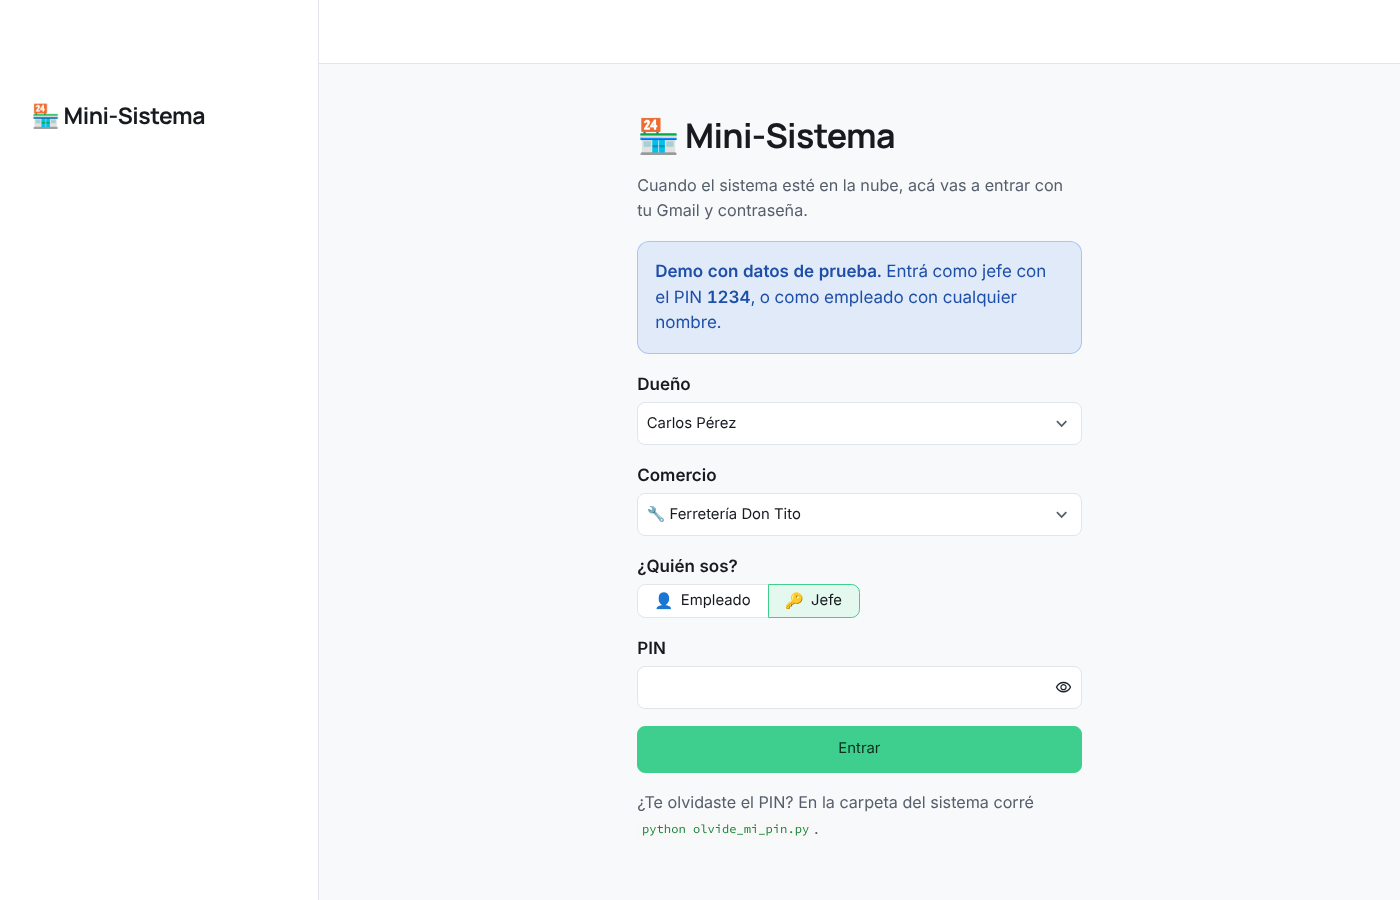
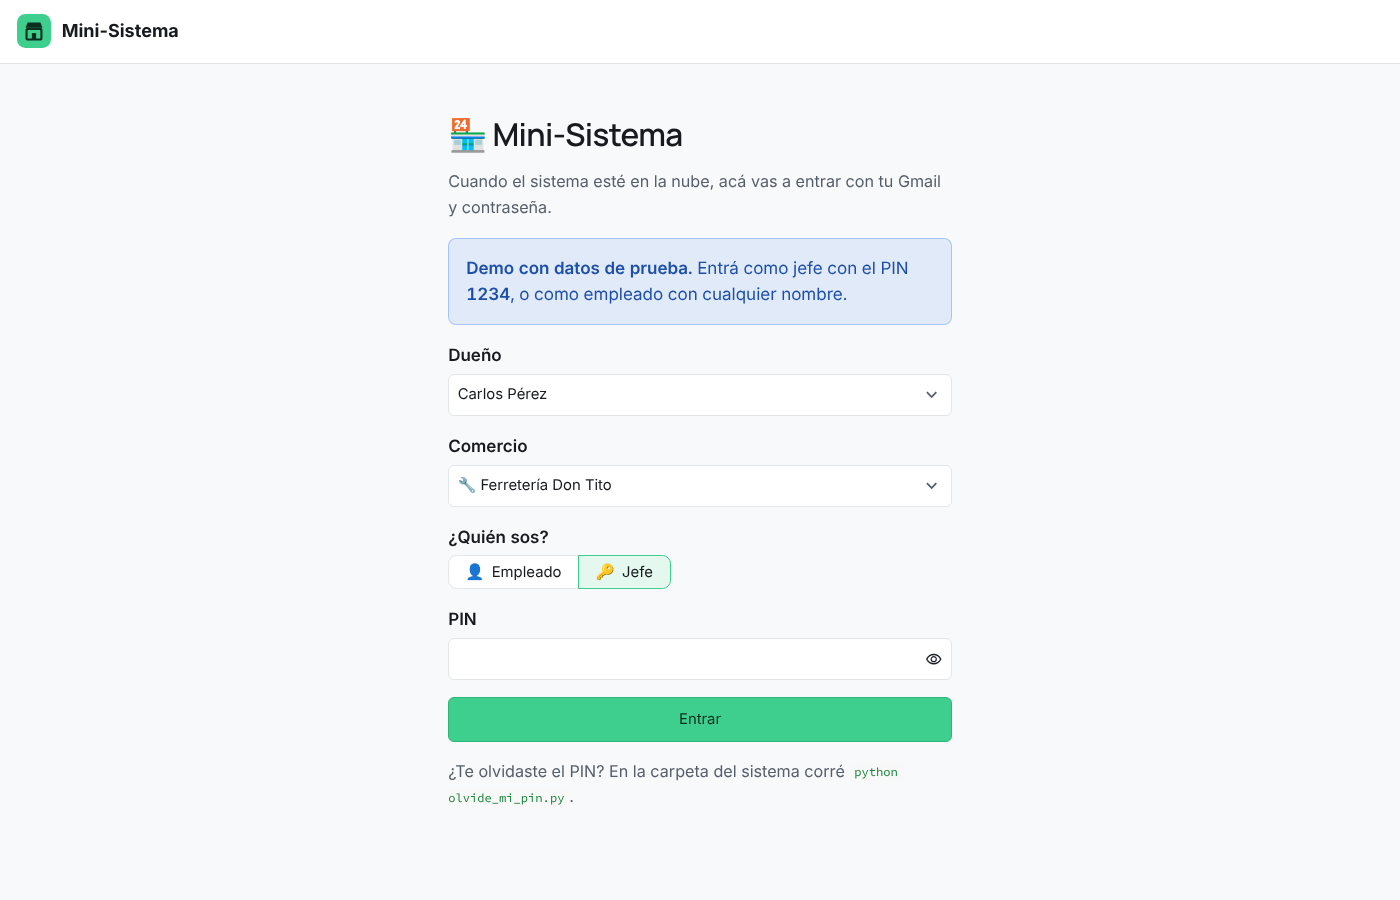
Diseño más parecido a Supabase y modo oscuro también para el empleado
Logo arriba a la izquierda, cabecera de cada pantalla con línea abajo,
tarjetas de los comercios con etiquetas de estado (caja abierta, stock
bajo, vencidos), accesos rápidos como botoncitos, títulos más livianos,
esquinas de 8 px y botón principal verde con borde. El empleado también
ve el interruptor; su elección dura mientras está adentro.

Claude-Session: https://claude.ai/code/session_013MiRa8bg68iYCC9FLNK3SH

diff --git a/comun.py b/comun.py
@@ -1,5 +1,6 @@
 """Cosas que usan varias pantallas: formato de pesos, comercio elegido, etc."""
 
+import html
 import json
 from datetime import date
 
@@ -79,8 +80,12 @@ ESTILOS = """<style>
 .stApp hr { border-color: var(--borde) !important; }
 
 /* Títulos sobrios, como en Supabase: no tan gigantes ni tan gruesos */
-.stApp h1 { font-size: 2rem !important; font-weight: 700 !important; letter-spacing: -0.02em; }
-.stApp h2, .stApp h3 { font-weight: 650 !important; letter-spacing: -0.01em; }
+.stApp h1 { font-size: 1.85rem !important; font-weight: 600 !important; letter-spacing: -0.02em; }
+.stApp h2, .stApp h3 { font-weight: 600 !important; letter-spacing: -0.01em; }
+.stApp h3 { font-size: 1.3rem !important; }
+/* La cabecera de cada pantalla (encabezado() en este archivo): dónde estás, el título y una línea abajo */
+.st-key-encabezado { border-bottom: 1px solid var(--borde); border-radius: 0 !important; padding-bottom: 0.9rem; margin-bottom: 0.6rem; }
+.st-key-encabezado [data-testid="stCaptionContainer"] p { font-size: 0.95rem; font-weight: 500; }
 .stApp [data-testid="stHeaderActionElements"] { display: none; }
 /* El nombre del comercio en la barra de la izquierda: más chico, para que entre en una línea */
 .stApp [data-testid="stSidebar"] h1 { font-size: 1.35rem !important; }
@@ -96,7 +101,8 @@ ESTILOS = """<style>
 [data-testid="stTopNavDropdownLink"] p, [data-testid="stTopNavDropdownLink"] span { color: var(--texto) !important; }
 [data-testid="stTopNavDropdownLink"]:hover, [data-testid="stTopNavDropdownLink"][aria-current="page"] { background: var(--tarjeta-suave) !important; border-radius: 8px; }
 [data-testid="stPageLink"] a p { color: var(--texto) !important; }
-[data-testid="stPageLink"] a:hover { background: var(--tarjeta-suave) !important; }
+[data-testid="stMain"] [data-testid="stPageLink"] a { background: var(--tarjeta); border: 1px solid var(--borde); border-radius: 6px; padding: 0.45rem 0.8rem; }
+[data-testid="stPageLink"] a:hover { background: var(--tarjeta-suave) !important; border-color: var(--borde-fuerte) !important; }
 
 /* ---------- Textos ---------- */
 /* Nombres de los casilleros ("Día", "Producto", "Cantidad"...): más grandes y bien legibles */
@@ -109,24 +115,29 @@ ESTILOS = """<style>
 
 /* ---------- Tarjetas ---------- */
 /* Las cajas con borde (st.container(border=True)) y los desplegables: borde finito y esquinas suaves */
-.stApp [data-testid="stVerticalBlock"] { border-color: var(--borde) !important; border-radius: 12px; }
-[data-testid="stExpander"] details { border: 1px solid var(--borde) !important; border-radius: 12px !important; background: var(--tarjeta); }
+.stApp [data-testid="stVerticalBlock"] { border-color: var(--borde) !important; border-radius: 8px; }
+/* Las tarjetas de los comercios (Inicio): fondo propio, encabezado con el nombre y el estado */
+.stApp [class*="st-key-tarjeta"] { background: var(--tarjeta); border-radius: 8px; }
+[data-testid="stVerticalBlockBorderWrapper"]:has(> div > [class*="st-key-tarjeta"]) { background: var(--tarjeta); border-color: var(--borde) !important; border-radius: 8px; }
+.tarjeta-titulo { display: flex; align-items: center; justify-content: space-between; gap: 0.5rem; flex-wrap: wrap; }
+.tarjeta-titulo h3 { margin: 0 !important; padding: 0 !important; }
+[class*="st-key-tarjeta"] [data-testid="stMetric"] { background: var(--tarjeta-suave); border-color: transparent; }
+[data-testid="stExpander"] details { border: 1px solid var(--borde) !important; border-radius: 8px !important; background: var(--tarjeta); }
 [data-testid="stExpander"] summary, [data-testid="stExpander"] summary p { color: var(--texto) !important; }
 [data-testid="stExpander"] summary:hover { background: var(--tarjeta-suave); }
 
 /* Cada número grande en su propia tarjeta, como los paneles de Supabase */
 [data-testid="stMetric"] {
-    background: var(--tarjeta); border: 1px solid var(--borde); border-radius: 12px;
-    padding: 14px 18px; box-shadow: var(--sombra);
+    background: var(--tarjeta); border: 1px solid var(--borde); border-radius: 8px;
+    padding: 14px 18px;
 }
-[data-testid="stMetricLabel"] p { font-size: 0.85rem !important; font-weight: 600; text-transform: uppercase;
-                                  letter-spacing: 0.04em; color: var(--texto-suave) !important; }
+[data-testid="stMetricLabel"] p { font-size: 0.95rem !important; font-weight: 500; color: var(--texto-suave) !important; }
 [data-testid="stMetricValue"], [data-testid="stMetricValue"] div { font-weight: 500; color: var(--texto) !important; }
 /* La flechita de "vs. el período anterior": en el tema oscuro, más clara para que se lea */
 [data-testid="stMetricDelta"] { filter: var(--filtro-flechas); }
 
 /* Avisos (info, éxito, cuidado, error): fondo suave del color, con borde, que se lee en los dos temas */
-[data-testid="stAlertContainer"] { border: 1px solid var(--borde); border-radius: 12px; }
+[data-testid="stAlertContainer"] { border: 1px solid var(--borde); border-radius: 8px; }
 [data-testid="stAlertContainer"]:has([data-testid="stAlertContentInfo"]) { background: color-mix(in srgb, #3B82F6 12%, transparent) !important; border-color: color-mix(in srgb, #3B82F6 35%, transparent); }
 [data-testid="stAlertContainer"]:has([data-testid="stAlertContentSuccess"]) { background: color-mix(in srgb, #22C55E 12%, transparent) !important; border-color: color-mix(in srgb, #22C55E 35%, transparent); }
 [data-testid="stAlertContainer"]:has([data-testid="stAlertContentWarning"]) { background: color-mix(in srgb, #EAB308 14%, transparent) !important; border-color: color-mix(in srgb, #EAB308 40%, transparent); }
@@ -136,13 +147,22 @@ ESTILOS = """<style>
 [data-testid="stAlertContentWarning"], [data-testid="stAlertContentWarning"] p { color: var(--aviso-cuidado) !important; }
 [data-testid="stAlertContentError"], [data-testid="stAlertContentError"] p { color: var(--aviso-error) !important; }
 
+/* ---------- Insignias ---------- */
+/* Etiquetitas de estado (Caja abierta, Stock bajo...), hechas con insignia() de este archivo */
+.insignia { display: inline-flex; align-items: center; gap: 0.35rem; padding: 0.15rem 0.6rem; border-radius: 999px;
+            font-size: 0.88rem; font-weight: 500; border: 1px solid var(--borde); color: var(--texto-suave);
+            background: var(--tarjeta-suave); margin: 0 0.35rem 0.35rem 0; }
+.insignia-verde { color: var(--aviso-exito); background: color-mix(in srgb, #22C55E 12%, transparent); border-color: color-mix(in srgb, #22C55E 40%, transparent); }
+.insignia-amarilla { color: var(--aviso-cuidado); background: color-mix(in srgb, #EAB308 14%, transparent); border-color: color-mix(in srgb, #EAB308 45%, transparent); }
+.insignia-roja { color: var(--aviso-error); background: color-mix(in srgb, #EF4444 12%, transparent); border-color: color-mix(in srgb, #EF4444 40%, transparent); }
+
 /* ---------- Casilleros ---------- */
 .stApp [data-testid="stTextInputRootElement"], .stApp [data-testid="stTextAreaRootElement"],
 .stApp [data-testid="stSelectbox"] [role="group"], .stApp [data-testid="stMultiSelect"] [role="group"],
 .stApp [data-testid="stNumberInputContainer"], .stApp [data-testid="stDateInputField"],
 .stApp [data-baseweb="input"], .stApp [data-baseweb="base-input"], .stApp [data-baseweb="textarea"],
 .stApp [data-baseweb="select"] > div {
-    background: var(--tarjeta) !important; border-color: var(--borde) !important; border-radius: 8px !important;
+    background: var(--casillero) !important; border-color: var(--borde) !important; border-radius: 6px !important;
 }
 .stApp input, .stApp textarea, .stApp [data-baseweb="select"] div { color: var(--texto) !important; -webkit-text-fill-color: var(--texto); }
 .stApp input::placeholder, .stApp textarea::placeholder { color: var(--texto-suave) !important; -webkit-text-fill-color: var(--texto-suave); opacity: 1; }
@@ -213,14 +233,14 @@ ESTILOS = """<style>
 
 /* ---------- Botones ---------- */
 .stButton button, .stFormSubmitButton button, .stDownloadButton button, .stLinkButton a {
-    min-height: 2.75rem; font-weight: 600; border-radius: 8px !important;
+    min-height: 2.6rem; font-weight: 500; border-radius: 6px !important;
 }
-/* El principal (Cobrar, Entrar, Abrir caja...): verde sólido */
+/* El principal (Cobrar, Entrar, Abrir caja...): verde, con el borde un poco distinto como en Supabase */
 .stApp [data-testid="stBaseButton-primary"], .stApp [data-testid="stBaseButton-primaryFormSubmit"] {
-    background: var(--acento) !important; border: 1px solid var(--acento) !important;
+    background: var(--boton) !important; border: 1px solid var(--boton-borde) !important;
 }
 .stApp [data-testid="stBaseButton-primary"] p, .stApp [data-testid="stBaseButton-primaryFormSubmit"] p,
-.stApp [data-testid="stBaseButton-primary"] span, .stApp [data-testid="stBaseButton-primaryFormSubmit"] span { color: var(--texto-acento) !important; }
+.stApp [data-testid="stBaseButton-primary"] span, .stApp [data-testid="stBaseButton-primaryFormSubmit"] span { color: var(--boton-texto) !important; }
 .stApp [data-testid="stBaseButton-primary"]:hover, .stApp [data-testid="stBaseButton-primaryFormSubmit"]:hover { filter: brightness(0.95); }
 /* Los demás: fondo de tarjeta con borde */
 .stApp [data-testid="stBaseButton-secondary"], .stApp [data-testid="stBaseButton-secondaryFormSubmit"],
@@ -336,10 +356,16 @@ def comercio_actual():
 
 
 def encabezado(icono, titulo, comercio=None):
-    """Título de cada pantalla, con el comercio elegido abajo."""
-    st.title(f"{icono} {titulo}")
-    if comercio:
-        st.caption(f"{RUBROS.get(comercio['rubro'], '🏪')} · **{comercio['nombre']}**")
+    """Cabecera de cada pantalla, como en Supabase: arriba en qué comercio estás, el título y una línea abajo."""
+    with st.container(key="encabezado"):
+        if comercio:
+            st.caption(f"{RUBROS.get(comercio['rubro'], '🏪')} · {comercio['nombre']}")
+        st.title(f"{icono} {titulo}")
+
+
+def insignia(texto, color="gris"):
+    """Una etiquetita de estado (verde, amarilla, roja o gris). Devuelve HTML para st.markdown(..., unsafe_allow_html=True)."""
+    return f'<span class="insignia insignia-{color}">{html.escape(texto)}</span>'
 
 
 def dejar_listo_el_lector(etiqueta, forzar=False):

diff --git a/tema.py b/tema.py
@@ -5,7 +5,7 @@ Cómo funciona (sin recargar la página):
 - Los estilos de comun.ESTILOS usan solo esas variables, nunca un color fijo.
 - Cambiar el tema es cambiar esas pocas variables: el navegador repinta todo al instante.
 - Lo que elige el jefe se guarda en la base (duenos.tema). Al volver a entrar sigue igual,
-  y sus empleados ven el mismo tema.
+  y sus empleados arrancan con ese tema (ellos también pueden cambiarlo mientras están adentro).
 
 Para cambiar los colores del sistema alcanza con tocar PALETAS.
 """
@@ -30,6 +30,10 @@ PALETAS = {
         "texto-suave": "#555E6B",    # ayudas y títulos de las tarjetas (con buen contraste igual)
         "acento": "#3ECF8E",         # botón principal (Cobrar), casilleros elegidos
         "acento-fuerte": "#1F9D63",  # textos y bordes verdes (más oscuro, para que se lea en blanco)
+        "boton": "#3ECF8E",          # botón principal (Cobrar, Entrar...)
+        "boton-borde": "#2FB57A",
+        "boton-texto": "#0B2E1E",
+        "casillero": "#FFFFFF",      # fondo de los casilleros para escribir
         "texto-acento": "#0B2E1E",   # letra arriba del verde
         "positivo": "#15803D",       # vuelto, ganancia
         "aviso-info": "#1E4FA8",     # letra de los avisos de cada tipo
@@ -52,6 +56,10 @@ PALETAS = {
         "texto-suave": "#A3ADBB",
         "acento": "#3ECF8E",
         "acento-fuerte": "#3ECF8E",
+        "boton": "#006239",          # en oscuro, Supabase usa un verde profundo con borde verde claro
+        "boton-borde": "#3ECF8E",
+        "boton-texto": "#FFFFFF",
+        "casillero": "#0D1117",
         "texto-acento": "#07261A",
         "positivo": "#4ADE80",
         "aviso-info": "#93C5FD",
@@ -104,12 +112,29 @@ def _al_cambiar():
     nuevo = "oscuro" if st.session_state["switch_tema"] else "claro"
     st.session_state["tema"] = nuevo
     dueno = st.session_state.get("dueno")
-    if dueno and not MODO_DEMO:
+    # Lo que elige el jefe queda guardado; lo que elige un empleado, solo mientras está adentro
+    if dueno and st.session_state.get("rol") == "jefe" and not MODO_DEMO:
         op.guardar_tema(dueno["id"], nuevo)
 
 
+def logo():
+    """El logo de arriba a la izquierda: un cuadradito verde con una tiendita y el nombre del sistema.
+    Es un dibujo (SVG) hecho acá mismo; va en dos versiones porque el texto cambia de color con el tema."""
+    texto = PALETAS[tema_activo()]["texto"]
+    return f"""<svg xmlns="http://www.w3.org/2000/svg" width="176" height="32" viewBox="0 0 176 32">
+  <rect x="0" y="0" width="32" height="32" rx="8" fill="#3ECF8E"/>
+  <path d="M8 13 L10 8 H22 L24 13 Z" fill="#0B2E1E"/>
+  <rect x="9" y="14" width="14" height="10" rx="1.5" fill="none" stroke="#0B2E1E" stroke-width="2"/>
+  <rect x="14" y="18" width="4" height="6" fill="#0B2E1E"/>
+  <text x="42" y="22" font-family="Inter, Segoe UI, Arial, sans-serif" font-size="17" font-weight="700"
+        fill="{texto}">Mini-Sistema</text>
+</svg>"""
+
+
 def switch_tema():
-    """El botón "Modo oscuro" de la barra de la izquierda (solo lo ve el jefe)."""
+    """El botón "Modo oscuro" de la barra de la izquierda (lo ven el jefe y los empleados)."""
     st.session_state["switch_tema"] = tema_activo() == "oscuro"
-    st.toggle("🌙 Modo oscuro", key="switch_tema", on_change=_al_cambiar,
-              help="Cambia los colores del sistema. Queda guardado para la próxima vez y para tus empleados.")
+    ayuda = ("Cambia los colores del sistema. Queda guardado para la próxima vez y para tus empleados."
+             if st.session_state.get("rol") == "jefe" else
+             "Cambia los colores del sistema mientras estés adentro. Al entrar, se usan los que eligió el jefe.")
+    st.toggle("🌙 Modo oscuro", key="switch_tema", on_change=_al_cambiar, help=ayuda)

diff --git a/paginas/inicio.py b/paginas/inicio.py
@@ -1,17 +1,18 @@
 """Inicio: el "launcher". Muestra todos los comercios del dueño y accesos rápidos."""
 
+import html
 from datetime import date
 
 import streamlit as st
 
 import operaciones as op
-from comun import RUBROS, aviso_temporada, pesos, plural, texto_vencimientos
+from comun import RUBROS, aviso_temporada, insignia, pesos, plural, texto_vencimientos
 
 dueno = st.session_state["dueno"]
-st.title(f"Hola, {dueno['nombre'].split()[0]} 👋")
-
 hoy = date.today()
-st.caption(f"Hoy es {hoy:%d/%m/%Y}. Los números se actualizan con cada venta que cargás.")
+with st.container(key="encabezado"):  # misma cabecera que las otras pantallas (ver comun.encabezado)
+    st.title(f"Hola, {dueno['nombre'].split()[0]} 👋")
+    st.caption(f"Hoy es {hoy:%d/%m/%Y}. Los números se actualizan con cada venta que cargás.")
 
 # Accesos rápidos a las pantallas
 accesos = st.columns(5)
@@ -46,8 +47,12 @@ for i, c in enumerate(comercios.itertuples()):
     total_mes += del_mes["total"]
     ganancia_mes += del_mes["ganancia"]
 
-    with columnas[i % len(columnas)].container(border=True):
-        st.markdown(f"### {c.nombre}")
+    caja = op.caja_abierta(c.id)
+    # Cada comercio en su tarjeta: arriba el nombre con el estado de la caja, como los proyectos en Supabase
+    with columnas[i % len(columnas)].container(border=True, key=f"tarjeta_comercio_{c.id}"):
+        estado = insignia("● Caja abierta", "verde") if caja else insignia("Caja cerrada")
+        st.markdown(f'<div class="tarjeta-titulo"><h3>{html.escape(c.nombre)}</h3>{estado}</div>',
+                    unsafe_allow_html=True)
         st.caption(f"{RUBROS.get(c.rubro, c.rubro)} · {c.direccion or ''}")
         if del_dia["cantidad"]:
             st.metric("Vendido hoy", pesos(del_dia["total"]))
@@ -62,13 +67,15 @@ for i, c in enumerate(comercios.itertuples()):
             else:
                 st.metric("Vendido hoy", pesos(0))
             st.caption(f"Hoy todavía no hay ventas · {pesos(del_mes['total'])} en el mes")
+        avisos = []
         if stock_bajo:
-            st.warning(f"{plural(stock_bajo, 'producto', 'productos')} con stock bajo")
+            avisos.append(insignia(f"{plural(stock_bajo, 'producto', 'productos')} con stock bajo", "amarilla"))
         if aviso := texto_vencimientos(op.avisos_vencimientos(c.id)):
-            st.error(f"🗓 {aviso}")
-        caja = op.caja_abierta(c.id)
-        st.caption(f"🟢 Caja abierta por {caja['responsable']} desde las {caja['abierta']:%H:%M}" if caja
-                   else "🔒 Caja cerrada")
+            avisos.append(insignia(f"🗓 {aviso}", "roja"))
+        if avisos:
+            st.markdown("".join(avisos), unsafe_allow_html=True)
+        if caja:
+            st.caption(f"Abierta por {caja['responsable']} desde las {caja['abierta']:%H:%M}")
         if st.button("Ir a la caja", key=f"abrir_{c.id}", on_click=elegir_comercio, args=(c.nombre,)):
             st.switch_page("paginas/caja.py")
 

diff --git a/app.py b/app.py
@@ -46,6 +46,7 @@ import operaciones as op  # noqa: E402 (va después de recargar)
 import reportes
 from ingreso import pantalla_ingreso
 from comun import RUBROS, a_python, aplicar_estilos, correr_script, permisos_de
+import tema
 from tema import switch_tema
 from config import EN_STREAMLIT_CLOUD, FORMULARIO_RESENAS, MODO_DEMO, PIN_DEMO, PUEDE_APAGARSE, RUTA_BASE
 
@@ -91,6 +92,8 @@ correr_script("""
 
 # Colores del tema (claro u oscuro, ver tema.py), letra grande, botones cómodos y sin los detalles de Streamlit
 aplicar_estilos()
+# El logo arriba a la izquierda, como en los paneles de Supabase
+st.logo(tema.logo(), size="large")
 
 
 @st.cache_resource(show_spinner=False)
@@ -141,7 +144,6 @@ def boton_resena():
 rol = st.session_state.get("rol")
 if rol not in ("jefe", "empleado"):
     with st.sidebar:
-        st.title("🏪 Mini-Sistema")
         boton_resena()
         if PUEDE_APAGARSE and st.button("⏻ Apagar el sistema", width="stretch"):
             confirmar_apagado()
@@ -157,7 +159,7 @@ dueno = st.session_state["dueno"]
 comercios = op.listar_comercios(dueno["id"])  # se vuelven a leer por si el jefe cambió algo
 
 with st.sidebar:
-    st.title("🏪 Mini-Sistema")
+    # El nombre del sistema va en el logo de arriba (st.logo, ver tema.logo)
     if rol == "jefe":
         st.caption(f"🔑 Jefe · **{dueno['nombre']}**")
         switch_tema()  # modo claro / oscuro (tema.py), arriba para que se encuentre fácil
@@ -178,6 +180,7 @@ with st.sidebar:
     else:
         # El empleado queda fijo en el comercio con el que entró
         st.caption(f"👤 Empleado · **{st.session_state['nombre']}**")
+        switch_tema()
     fila = comercios[comercios["nombre"] == st.session_state.get("comercio_nombre")]
     st.session_state["comercio"] = a_python(fila.iloc[0]) if not fila.empty else None
     if rol == "empleado":

diff --git a/informe/guia/guia-del-sistema.md b/informe/guia/guia-del-sistema.md
@@ -55,7 +55,7 @@ El sistema tiene tres partes, una encima de la otra:
 
 ### Modo claro u oscuro
 
-El jefe cambia los colores con el botón **🌙 Modo oscuro** de la barra de la izquierda. El cambio es al instante y queda guardado en la base (en la tabla `duenos`), así que al volver a entrar sigue igual y sus empleados ven los mismos colores. En la demo en línea no se guarda, porque todos los visitantes usan el mismo dueño.
+Los colores se cambian con el botón **🌙 Modo oscuro** de la barra de la izquierda, al instante. Lo que elige el jefe queda guardado en la base (en la tabla `duenos`): al volver a entrar sigue igual y sus empleados arrancan con esos colores. El empleado también puede cambiarlos, pero solo mientras está adentro. En la demo en línea no se guarda, porque todos los visitantes usan el mismo dueño.
 
 Cómo funciona: los colores de cada modo están en `tema.py`, como variables de CSS (`--fondo`, `--texto`, `--borde`, `--acento`...). Los estilos de `comun.py` usan solo esas variables, nunca un color fijo. Cambiar de modo es cambiar esas pocas variables, y el navegador repinta todo sin recargar la página. Para cambiar un color del sistema alcanza con tocarlo en `PALETAS`, dentro de `tema.py`.
 

diff --git a/README.md b/README.md
@@ -18,7 +18,7 @@ Proyecto de portfolio hecho por Nahuel, estudiante de Ciencia de Datos (Teclab).
 - **Jefe y empleado:** el jefe entra con su PIN y ve todo; el empleado ve la Caja y solo lo que el jefe le habilite.
 - **Reportes** por semana, mes o fechas, en pantalla y en Excel con gráficos. El del mes pasado se guarda solo; el semanal se activa en temporada alta.
 - **Panel del día** que se actualiza solo, **stock** con avisos de reposición, **compras**, **gastos**, **ticket en PDF** e **importar/exportar Excel**.
-- **Modo claro u oscuro:** el jefe lo cambia con el botón 🌙 de la barra de la izquierda, al instante. Queda guardado para la próxima vez y sus empleados ven lo mismo.
+- **Modo claro u oscuro:** se cambia con el botón 🌙 de la barra de la izquierda, al instante. Lo que elige el jefe queda guardado y sus empleados arrancan con eso (también pueden cambiarlo mientras están adentro).
 
 | Caja | Cierre de caja |
 |---|---|
